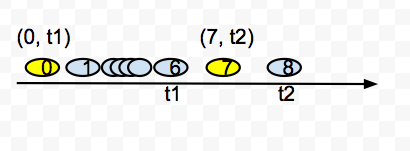
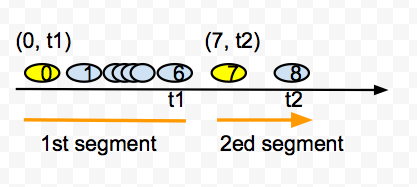
Site updated at 2015-04-25 03:49:14 UTC

Changed region(s): [[0.0293, 0.1589, 0.9366, 0.6887], [0.5268, 0.7152, 0.8488, 0.8477], [0.0878, 0.7152, 0.3805, 0.8477]]

diff --git a/blog/2015/04/23/a-closer-look-at-kafka-offsetrequest/index.html b/blog/2015/04/23/a-closer-look-at-kafka-offsetrequest/index.html
@@ -275,7 +275,7 @@
 
 
 <p><code>baseOffset</code> is the offset of the first message(in the previous segment) in this segemnt <code>i</code>.
-<code>lastModified</code> is the timestamp of the latest message in this segment <code>i</code>.</p>
+<code>lastModified</code> is the timestamp of the latest message in this segment <code>i</code>.jHere is an example:</p>
 
 <p><img src="/images/post/offsetrequest1.png" alt="map log segements to offsetTimeArray" /></p>
 
@@ -303,7 +303,7 @@
 <ol>
 <li>If <code>timestamp == LatestTime</code>, we gets the last index(of the padding element).</li>
 <li>If <code>timestamp == EarliestTime</code>, we get 0.</li>
-<li>Otherwise, search backward to find the first element which latest message happened <strong>before</strong> <code>timestamp</code>.</li>
+<li>Otherwise, search backward to find the first element whose latest message happened <strong>before</strong> <code>timestamp</code>.</li>
 </ol>
 
 
@@ -349,10 +349,10 @@
 <p>From the figure, assume <code>maxNumOffsets == 1</code>,</p>
 
 <ol>
-<li><p>If <code>timestamp == LatestTime</code>, we get <code>(8, now)</code> then return <code>[8]</code>, which is the offset to the latest message in the partition.</p></li>
-<li><p>If <code>timestamp == EarliestTime</code>, we get <code>(0, t1)</code> then return <code>[0]</code> which is the offset to the first messsage in the partition.</p></li>
-<li><p>If <code>timestamp == T1</code>, we get <code>(0, t1)</code> then return <code>[0]</code>. Note that <code>T1 &lt; t2</code>.</p></li>
-<li><p>If <code>timestamp == T2</code>, we get <code>(7, t2)</code> then return <code>[7]</code>.</p></li>
+<li><p>If <code>timestamp == LatestTime</code>, we get <code>startIndex == 2</code> pointing to <code>(8, now)</code> then return <code>[8]</code>, which is the offset to the latest message in the partition.</p></li>
+<li><p>If <code>timestamp == EarliestTime</code>, we get <code>startIndex == 0</code> pointing to <code>(0, t1)</code> then return <code>[0]</code> which is the offset to the first messsage in the partition.</p></li>
+<li><p>If <code>timestamp == T1</code>, we get <code>startIndex == 0</code> pointing to <code>(0, t1)</code> then return <code>[0]</code>. Note that <code>(7, t2)</code> is skipped because <code>T1 &lt; t2</code>.</p></li>
+<li><p>If <code>timestamp == T2</code>, we get <code>startIndex == 1</code> pointing to <code>(7, t2)</code> then return <code>[7]</code>.</p></li>
 </ol>
 
 
@@ -373,7 +373,7 @@
 </span></code></pre></td></tr></table></div></figure>
 
 
-<p>Say if <code>maxNumOffsets == 2</code>, with a <code>startIndex</code> then:</p>
+<p>Say if <code>maxNumOffsets == 2</code>, with the calculated <code>startIndex</code> above, then:</p>
 
 <ol>
 <li><p>If <code>timestamp == LatestTime</code>, we get <code>(8, now), (7, t2)</code> then return <code>[8, 7]</code>.</p></li>
@@ -385,7 +385,7 @@
 
 <p>That&rsquo;s it. To conclude, <strong>the offsets we get, will be either the offsets to the first messages in log segments or the offset to the latest message on the partition</strong>.</p>
 
-<p>This also explains a common problem: people often see offset 0 when they supply a unix <code>timestamp</code> to query offsets. That&rsquo;s simply because <code>log.sement.bytes</code> is 1 GB per default, the number of segments probably has&rsquo;t grown to more than 1 for the time being.</p>
+<p>This also explains a common problem: people often see offset 0 when they supply a unix <code>timestamp</code> to query offsets. That&rsquo;s simply because <code>log.sement.bytes</code> is 1 GB per default, the number of segments probably has&rsquo;t grown to more than 1 for the time being so they get the offset to the first messsage of the first segment.</p>
 </div>
 
 
